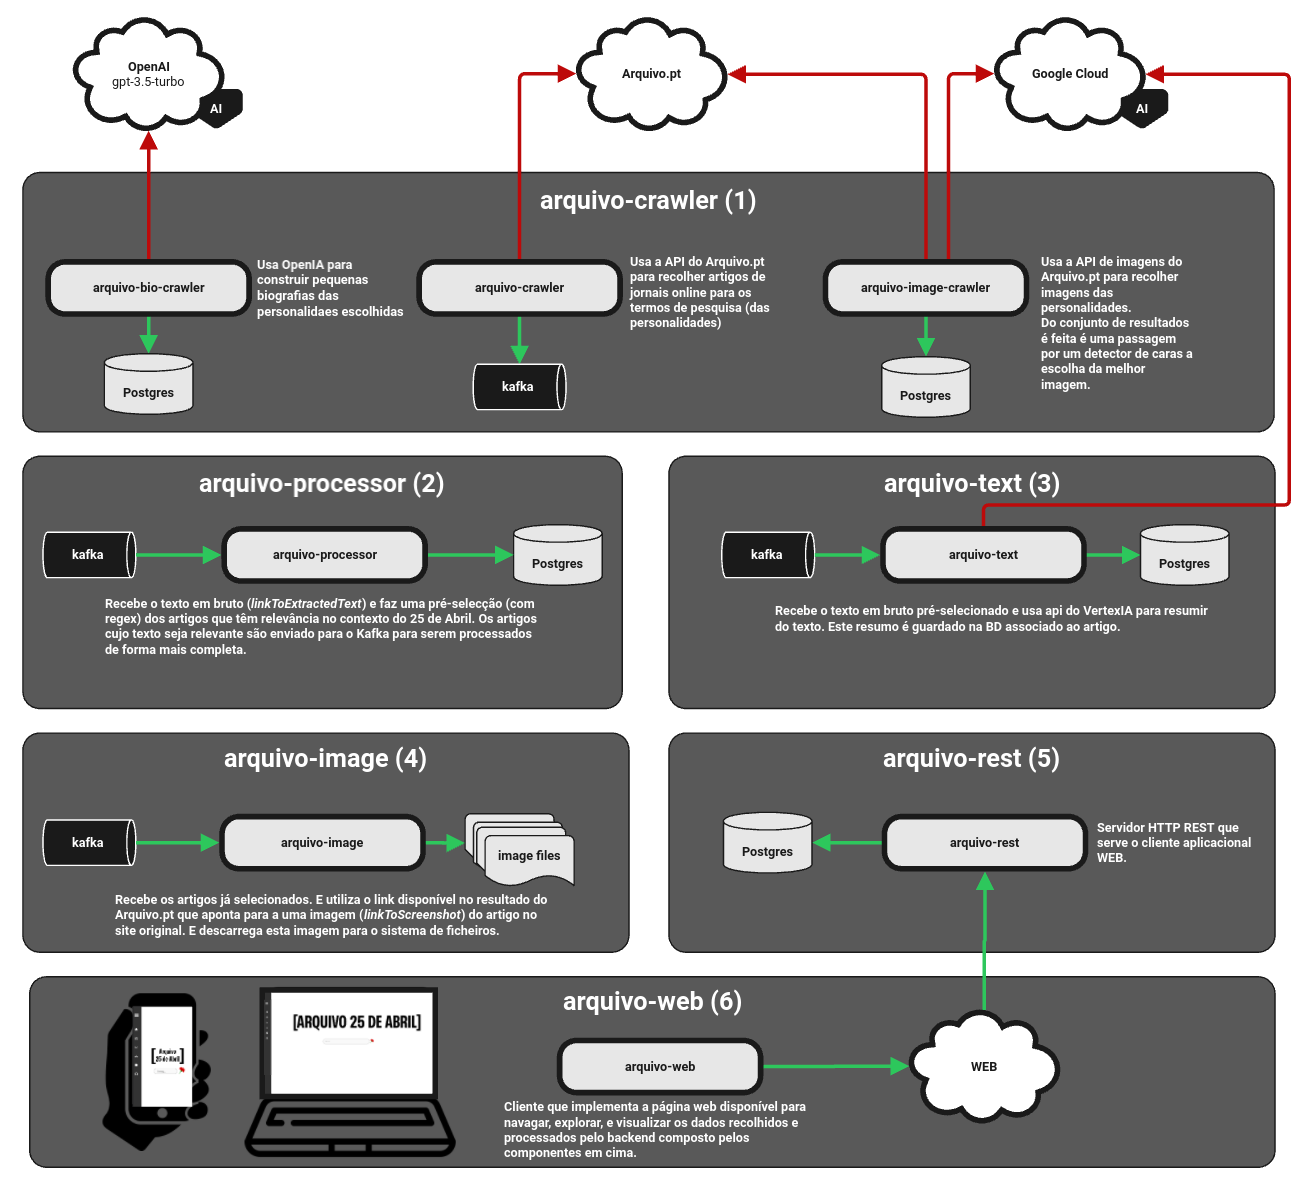
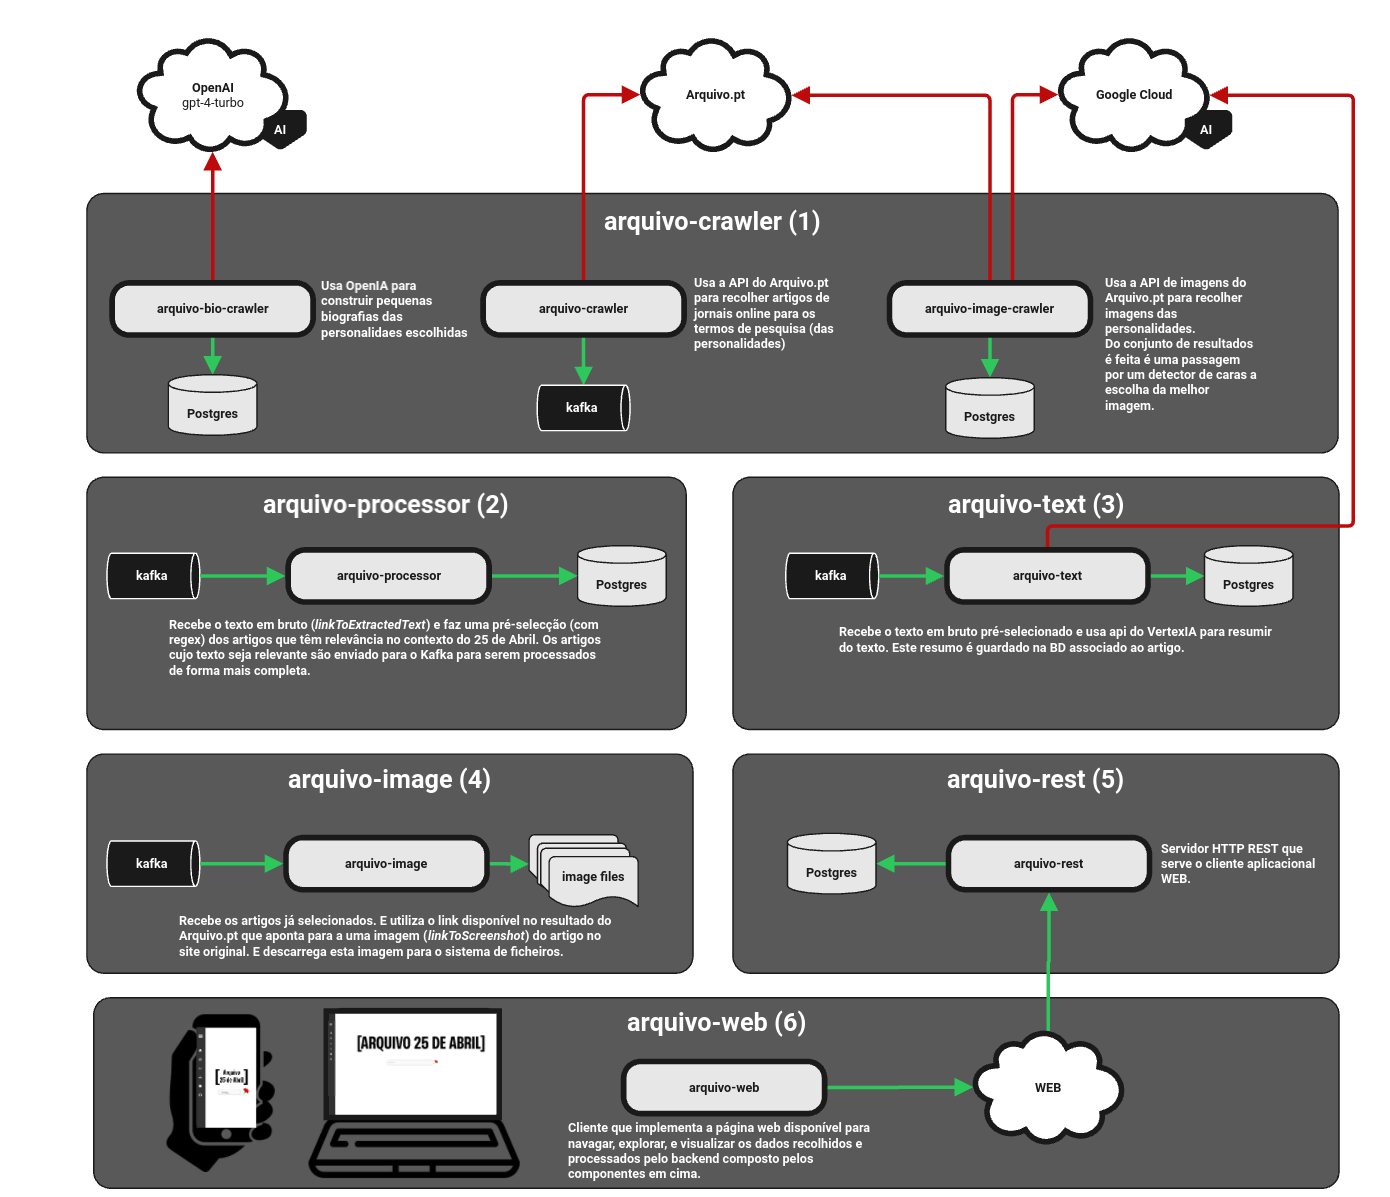
fix(web): improves architecture page

diff --git a/arquivo-web/src/routes/Architecture.jsx b/arquivo-web/src/routes/Architecture.jsx
@@ -7,9 +7,119 @@ const Architecture = () => {
     return (
         <div className="text-container">
             <Header isHome={false} />
-            <div class="text">
-                <h2>Motivação</h2>
+            <div className="text">
+                <h2>Arquitectura</h2>
+                Este projecto tem como objectivo criar um arquivo digital sobre o Estado Novo e o 25 de Abril, 
+                focando-se em artigos noticiosos, personalidades, eventos e locais relevantes desta época histórica.
+                A arquitectura do projecto é composta por várias componentes especializadas, divididas em duas partes principais: 
+                backend (Java) e frontend (React). Os dados são persistidos numa base de dados PostgreSQL e a comunicação 
+                entre componentes é feita através do Apache Kafka.
+
+                <br />
                 <img src="arquitectura.png" alt="Architecture" className="architecture-image" />
+
+                <h3>(1) arquivo-crawler</h3>
+                Este componente é responsável pela recolha de dados de várias fontes externas. O projecto assenta em dois conceitos principais:
+                entidades de pesquisa (pessoas, eventos, locais) e artigos noticiosos. Para cada entidade de pesquisa, recolhemos uma biografia, 
+                uma fotografia e artigos noticiosos relacionados. Isto é feito através de três crawlers especializados.
+
+                <div style={{ marginLeft: '20px', marginRight: '50px' }}>
+                    <h4>arquivo-bio-crawler</h4>
+                    Cada entidade de pesquisa tem uma biografia associada. Esta biografia permite ao utilizador do site saber quem é a entidade de pesquisa.
+                    Este crawler utiliza a API da OpenAI para obter uma biografia tendo em conta o contexto Histórico do Estado Novo
+                    e do 25 de Abril com as entidades de pesquisa.
+                    <br />
+                    <br />
+                    <strong>Porquê IA?</strong>
+                    <br />
+                    Numa versão anterior do projecto, utilizámos o Wikipedia (DBPedia) para obter a biografia, no entanto,
+                    os resultados não eram completos e a informação não estava abreviada. 
+                    Muitas vezes os resultados tinham metacaracteres e não eram legíveis ou relevantes neste contexto. 
+                    No entanto, a OpenIA, mesmo utilizando o <code>gpt-4-turbo</code> não é uma solução perfeita. 
+                    Isto é, não conseguimos obter uma biografia completa e relevante para todas as entidades. 
+                    Estas LLMs ainda têm algumas limitações e não conseguem obter informação relevante para todas as entidades. 
+                    Em particular, tivemos maus resultados para PIDEs, o que indica que há pouca documentação sobre estas pessoas. 
+                    Além disso, algumas das pessoas faleceram nos últimos anos e essas datas ainda não estão disponíveis na OpenIA. 
+                    Portanto, foram adicionadas manualmente para garantir que a informação está correcta.
+                </div>
+
+                <div style={{ marginLeft: '20px', marginRight: '50px' }}>
+                    <h4>arquivo-crawler</h4>
+                    Este componente recolhe os dados do Arquivo.pt através da <Link to="https://github.com/arquivo/pwa-technologies/wiki/APIs">API</Link>.
+                    Para cada uma das entidades de pesquisa e para cada site é criado um URL para fazer a recolha de artigos:
+                    <br/>
+                    <code>https://arquivo.pt/textsearch?q=ENTIDADE&prettyPrint=false&siteSearch=SITE&from=%s&to=%s&maxItems=500&type=html&dedupValue=1&dedupField=title&fields=title,linkToArchive,linkToExtractedText,linkToScreenshot</code>
+                    Este URL vai retornar todos os resultados do Arquivo.pt entre a data inicial que o Arquivo.pt permite e o dia corrente. 
+                    O próprio crawler itera sobre as várias páginas.
+                    Este componente não faz nenhum tipo de processamento, apenas faz o crawling e envia os dados para o <code>arquivo-processor</code>.
+                </div>
+
+                <div style={{ marginLeft: '20px', marginRight: '50px' }}>
+                    <h4>arquivo-image-crawler</h4>
+                    Este componente recolhe fotografias para as entidades de pesquisa. 
+                    A fonte de dados é o Arquivo.pt através da API de imagens. 
+                    Para garantir que as imagens são relevantes, utilizámos vários critérios de selecção para garantir que das imagens devolvidas pelo Arquivo.pt escolhemos a mais 
+                    correcta para a entidade de pesquisa em questão. 
+                    Os dois critérios principais foram encontrar referências do nome da entidade nos campos da imagem: <code>pageTitle</code>, 
+                    <code>imgAlt</code>, e <code>imgCaption</code>. 
+                    Depois utilizámos um detector de caras da <code>google-api</code>. 
+                    Estes foram os critérios para escolher a melhor imagem. Naturalmente, nem sempre conseguimos um match perfeito entre a imagem e a entidade de pesquisa. 
+                    Portanto, algumas (mas muito poucas) imagens foram adicionadas manualmente para garantir que a imagem é relevante para a entidade de pesquisa 
+                    (em particular para entidades que não são pessoas).
+
+                    <br/>
+                    A query utilizada foi a seguinte:
+                    <br/>
+                    <code>https://arquivo.pt/imagesearch?q=ENTIDADE&offset=0&maxItems=100&size=lg&prettyPrint=true&type=jpg,png&siteSearch=*.publico.pt,*.expresso.pt,*.tsf.pt,*.dn.pt,*.jn.pt,*.observador.pt"</code>
+                </div>
+
+                <h3>(2) arquivo-processor</h3>
+                Este componente é o orquestrador principal do sistema. É responsável por:
+                - Receber dados dos crawlers através do Kafka
+                - Fazer uma primeira análise de relevância dos artigos usando palavras-chave contextuais
+                - Distribuir o trabalho para os componentes especializados (arquivo-text e arquivo-image)
+                - Gerir o estado do processamento de cada artigo
+                
+                O scoring inicial é feito através de expressões regulares que procuram termos relacionados com 
+                o Estado Novo e o 25 de Abril, bem como referências às entidades de pesquisa. Apenas os artigos 
+                que ultrapassem um threshold mínimo são enviados para processamento adicional.
+
+                <h3>(3) arquivo-text</h3>
+                Este componente utiliza IA para processar e analisar o conteúdo dos artigos. O processamento é feito em duas fases:
+                1. Geração de um resumo do artigo usando o VertexAI (PaLM2)
+                2. Análise de relevância do resumo em relação ao contexto histórico e às entidades associadas
+
+                <br />
+                <br />
+                <strong>Porquê IA?</strong>
+                <br />
+                Na primeira versão deste projeto (2024), um dos problemas com que nos deparámos foi a dificuldade em limpar
+                o texto "raw" disponível em <code>linkToExtractedText</code>. Este texto é muito grande e contém muitos
+                metacaracteres e tem todo o texto já sem tags de HTML presente na página. Por exemplo, em sites de notícias existem
+                muitas colunas com notícias mais pequenas, cabeçalhos, rodapés, etc.
+                Isto trazia dois problemas: (1) Por vezes era difícil perceber se o texto era realmente relevante no contexto por haver
+                muito "lixo" à volta; (2) a forma como apresentávamos o texto do artigo de forma a mostrar ao utilizador do que se tratava o artigo,
+                não era legível.
+                Desta forma, decidimos utilizar um modelo de linguagem para fazer o resumo do texto. Ao fazer um resumo semântico de um texto
+                "com lixo" conseguimos ter um texto que é focado no que realmente é relevante, e depois fazer uma análise do contexto do projecto sobre
+                esse texto reduzido e focado.
+                <br />
+
+                <h3>(4) arquivo-image</h3>
+                Este componente é responsável por fazer o download e processamento das imagens dos artigos.
+                Recebe mensagens Kafka do arquivo-processor com os metadados do artigo e o URL da imagem (campo linkToScreenshot).
+                As imagens são processadas, redimensionadas e optimizadas antes de serem armazenadas.
+                Esta abordagem assíncrona permite-nos:
+                - Reduzir a carga no Arquivo.pt
+                - Optimizar o espaço em disco
+                - Processar apenas imagens de artigos relevantes
+
+                <h3>(5) arquivo-rest</h3>
+                Este componente é responsável por fornecer uma API REST para disponibilizar os dados processados.
+                Esta API é utilizada pela aplicação web.
+
+                <h3>(6) arquivo-web</h3>
+                Este componente é a aplicação web que suporta esta website. É uma aplicação React que utiliza o framework Vite.
             </div>
         </div>
     )

diff --git a/arquivo-web/src/index.css b/arquivo-web/src/index.css
@@ -8,8 +8,11 @@ body {
 }
 
 code {
-  font-family: source-code-pro, Menlo, Monaco, Consolas, 'Courier New',
-    monospace;
+  background-color: #d6d6d6;
+  padding: 2px 4px;
+  border-radius: 4px;
+  font-family: 'Courier New', Courier, monospace;
+  font-size: 0.9em;
 }
 
 a {
@@ -39,10 +42,14 @@ a:visited {
 .text-container {
   margin-left: 30%;
   display: grid;
-  margin-right: 20%;
+  margin-right: 30%;
   margin-top: 4%;
   grid-template-columns: 1fr; /* One column layout */
   gap: 10px; /* Optional space between the divs */
+  text-align: justify;
+  margin-bottom: 5%;
+  max-width: 100%;
+  word-wrap: break-word;
 }
 
 .data-container {
@@ -53,6 +60,10 @@ a:visited {
   gap: 10px; /* Optional space between the divs */
 }
 
+.architecture-image {
+  max-width: 100%;
+  height: auto;
+}
 
 @media (max-width: 768px) {
   .container {
@@ -64,13 +75,24 @@ a:visited {
   }
 
   .text-container {
+    font-size: 1em;
+    margin: 15px;
+    margin-left: 20%;
     margin-top: 15%;
-    margin-left: 29%; /* Remove left margin on mobile */
-    max-width: 60%;
+    max-width: 750px;
+    padding: 0 15px;
+    box-sizing: border-box;
   }
+
   .data-container{
     margin-top: 10%;
     margin-left: 5%;
+  }
+
+  .architecture-image {
+    max-width: 90%;
+    margin: 0 auto;
+    display: block;
   }
 }
 
